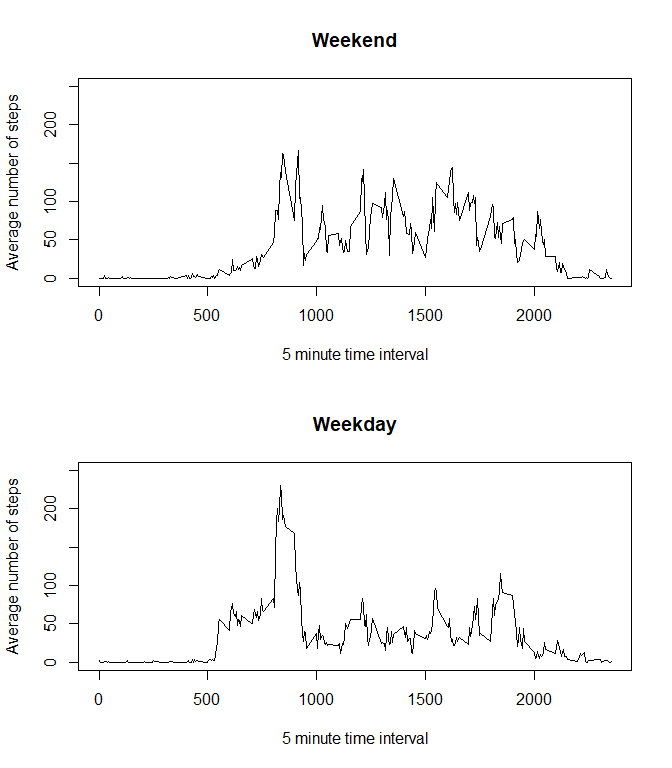
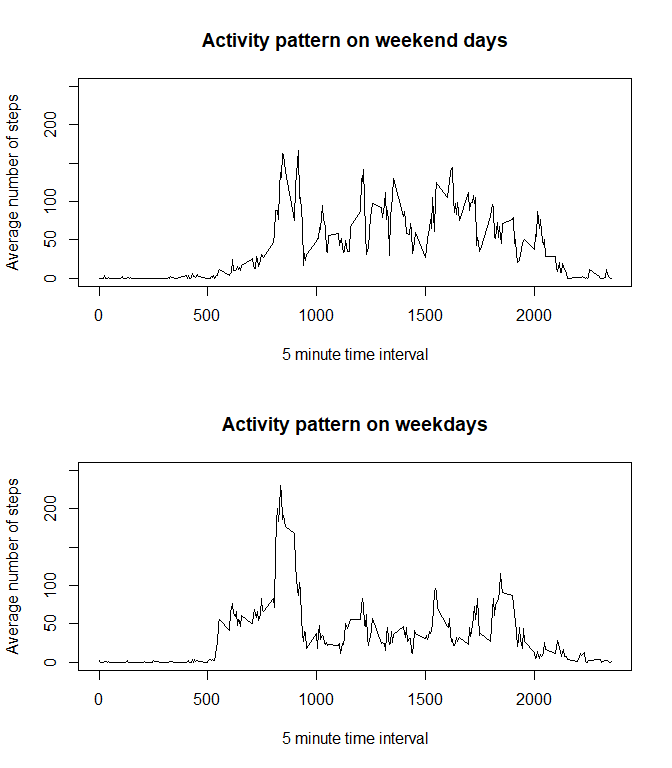
For assignment submission

Changed region(s): [[0.2812, 0.0312, 0.75, 0.0625], [0.3125, 0.5312, 0.7188, 0.5625]]

diff --git a/PA1_template.html b/PA1_template.html
@@ -356,11 +356,11 @@ display: none;
 
 <p>This report is written as part of the John Hopkins course on
 Reproducible Research presented on Coursera. The aim of the assignment
-is to demonstrate how a large data set can be utilized in reproducible
-research by using literate programming. The report is produced using r
-markdown to present both the r code and the results of that code
-together with the written text into one file that is knitted into an
-html file.</p>
+is to demonstrate how a large data set can be analyzing using he
+principles of reproducible research or literate programming. The report
+is produced using r markdown to present both the r code and the results
+of that code together with the written text into one file that is
+knitted into an html file.</p>
 <p>A data set has been provided as part of the assignment. The data was
 collected from a personal activity monitoring device. During the period
 of October and November in 2012 the steps taken by an anonymous
@@ -548,13 +548,13 @@ the Weekend</strong></p>
     par(mfrow=c(2,1))
 
     plot(int, aveWeekend, type = &quot;l&quot;, xlab = &quot;5 minute time interval&quot;, 
-        ylab = &quot;Average number of steps&quot;, main = &quot;Weekend&quot;,
+        ylab = &quot;Average number of steps&quot;, main = &quot;Activity pattern on weekend days&quot;,
         ylim = c(0, 250))
 
     plot(int, aveWeekday, type = &quot;l&quot;, xlab = &quot;5 minute time interval&quot;, 
-        ylab = &quot;Average number of steps&quot;, main = &quot;Weekday&quot;,
+        ylab = &quot;Average number of steps&quot;, main = &quot;Activity pattern on weekdays&quot;,
         ylim = c(0, 250))</code></pre>
[2 lines of base64/hex data omitted]
 <p>The activity pattern on a weekend differs from that of a weekday in
 that the there is a spike in activity on weekdays between time intervals
 750 and 950 reaching up to 200 average number of steps. On the weekends

diff --git a/PA1_template.md b/PA1_template.md
@@ -7,7 +7,7 @@ output:
 
 This report is written as part of the John Hopkins course on Reproducible Research
 presented on Coursera. The aim of the assignment is to demonstrate how a large 
-data set can be utilized in reproducible research by using literate programming. 
+data set can be analyzing using he principles of reproducible research or literate programming. 
 The report is produced using r markdown to present both the r code and the 
 results of that code together with the written text into one file that is 
 knitted into an html file.
@@ -292,11 +292,11 @@ the processed data set (dataNA) into two, one for weekdays and on for weekends.
     par(mfrow=c(2,1))
 
     plot(int, aveWeekend, type = "l", xlab = "5 minute time interval", 
-        ylab = "Average number of steps", main = "Weekend",
+        ylab = "Average number of steps", main = "Activity pattern on weekend days",
         ylim = c(0, 250))
 
     plot(int, aveWeekday, type = "l", xlab = "5 minute time interval", 
-        ylab = "Average number of steps", main = "Weekday",
+        ylab = "Average number of steps", main = "Activity pattern on weekdays",
         ylim = c(0, 250))
 ```
 
